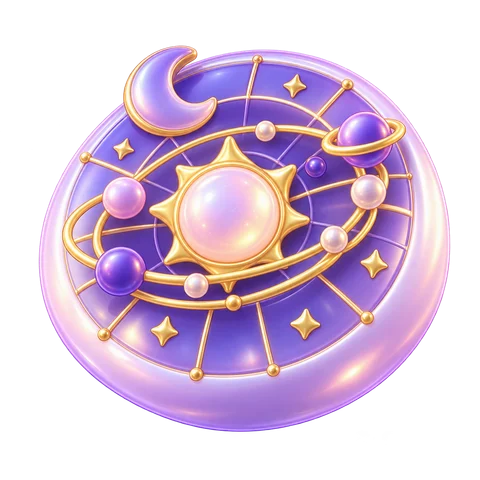
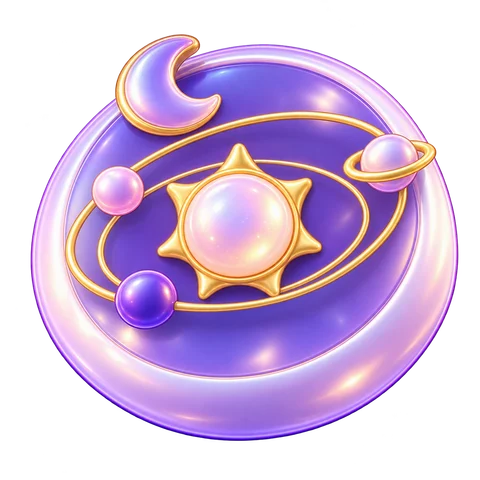
Refresh calculator artwork and restore editorial disclaimer

diff --git a/src/lib/images.ts b/src/lib/images.ts
@@ -28,6 +28,7 @@ import toolHeartV2 from "../../public/images/tool-heart-v2.webp";
 import toolPathV2 from "../../public/images/tool-path-v2.webp";
 import toolLotusV2 from "../../public/images/tool-lotus-v2.webp";
 import toolFlowerV2 from "../../public/images/tool-flower-v2.webp";
+import toolPersonalYear from "../../public/images/tool-personal-year.webp";
 import toolTreeV2 from "../../public/images/tool-tree-v2.webp";
 import roadmapJoin from "../../public/images/roadmap-join.webp";
 import roadmapInvite from "../../public/images/roadmap-invite.webp";
@@ -67,6 +68,7 @@ export const images: Record<string, StaticImageData> = {
   "/images/tool-path-v2.webp": toolPathV2,
   "/images/tool-lotus-v2.webp": toolLotusV2,
   "/images/tool-flower-v2.webp": toolFlowerV2,
+  "/images/tool-personal-year.webp": toolPersonalYear,
   "/images/tool-tree-v2.webp": toolTreeV2,
   "/images/roadmap-join.webp": roadmapJoin,
   "/images/roadmap-invite.webp": roadmapInvite,

diff --git a/src/app/page.tsx b/src/app/page.tsx
@@ -578,6 +578,13 @@ export default function Home() {
         <KeepExploring />
         <SharePage url={process.env.NEXT_PUBLIC_SITE_URL || "https://www.astra-link.app/"} />
 
+        <p className="editorial-note section-shell" id="editorial-note">
+          AstraLink content is written by our editorial team, reviewed for
+          astrological accuracy, and refreshed as the sky moves. Interpretations
+          are for reflection and entertainment; they are not medical, legal or
+          financial advice.
+        </p>
+
         <section className="final-cta section-shell">
           <p className="eyebrow">Waves fill in signup order</p>
           <h2>

diff --git a/src/app/globals.css b/src/app/globals.css
@@ -2493,6 +2493,14 @@ td svg {
 .share-actions > :is(button, a):focus-visible { outline: 2px solid #cfa5ff; outline-offset: 3px; }
 .share-status { flex-basis: 100%; color: #cbb7df; font-size: 13px; line-height: 1.6; }
 .share-status:empty { display: none; }
+.editorial-note {
+  padding-top: 22px;
+  color: var(--color-muted);
+  font-size: 14px;
+  line-height: 22px;
+  font-weight: 400;
+  text-wrap: pretty;
+}
 @media (max-width: 1000px) {
   .keep-exploring-grid { grid-template-columns: repeat(2, minmax(0, 1fr)); }
 }

diff --git a/src/lib/content.ts b/src/lib/content.ts
@@ -244,7 +244,7 @@ export const tools = [
     text: "Which numerology year you are in for 2026 and 2027, and what it asks of you.",
     href: "/numerology/personal-year/",
     icon: "⑨",
-    image: "tool-flower-v2",
+    image: "tool-personal-year",
     action: "Find my personal year",
   },
   {
